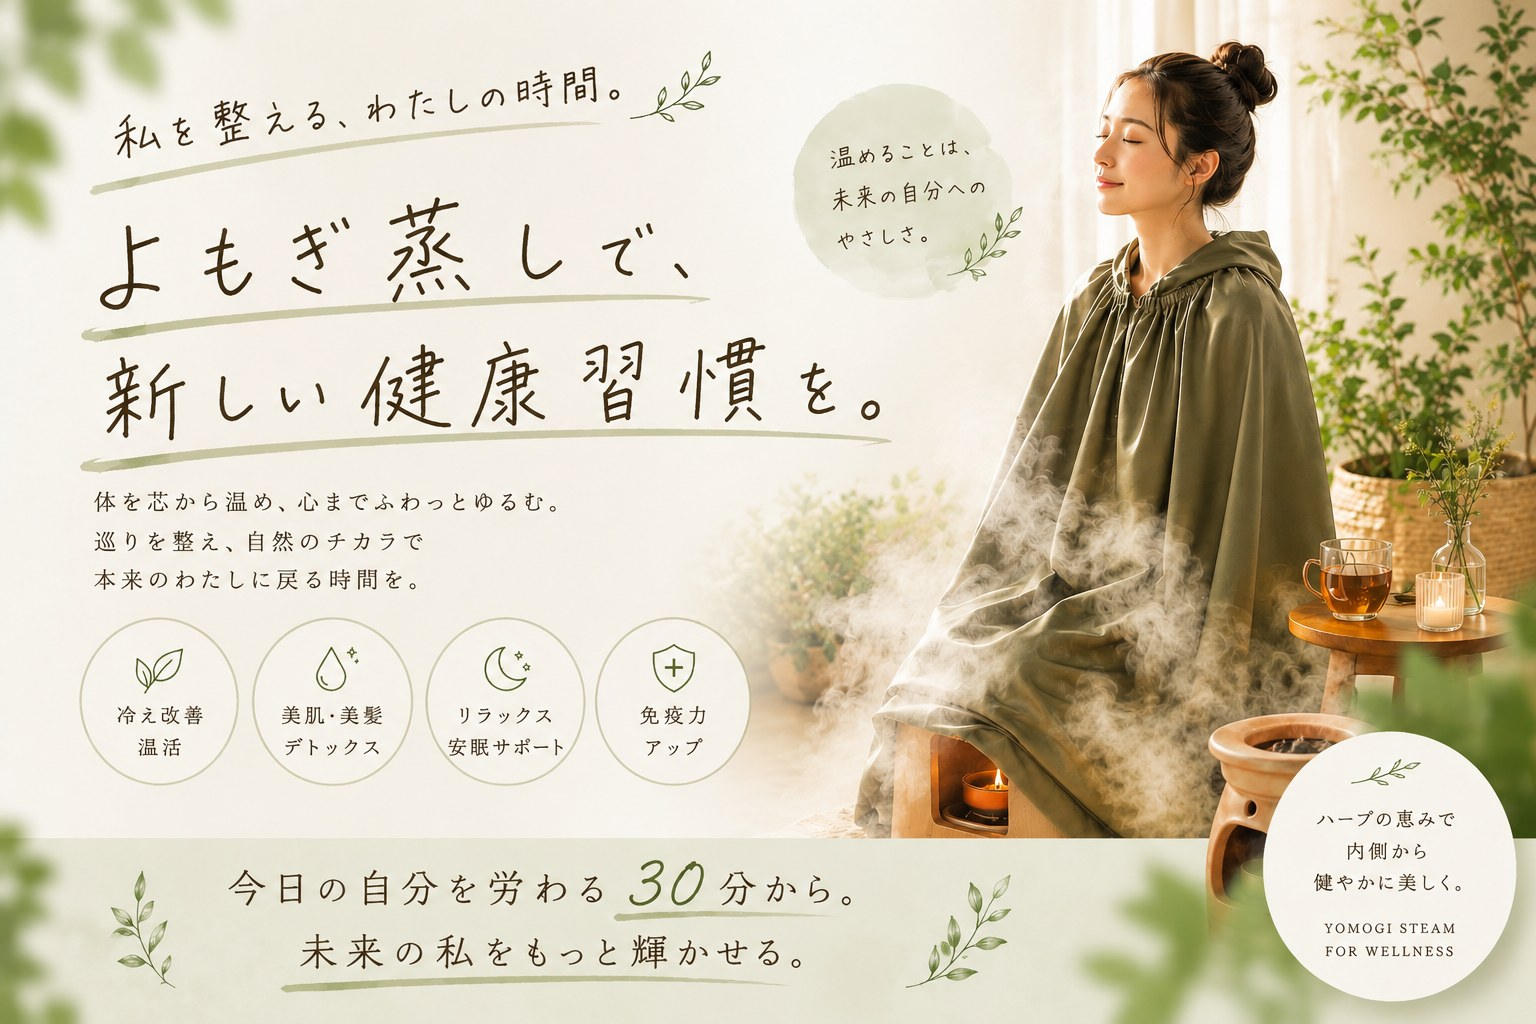
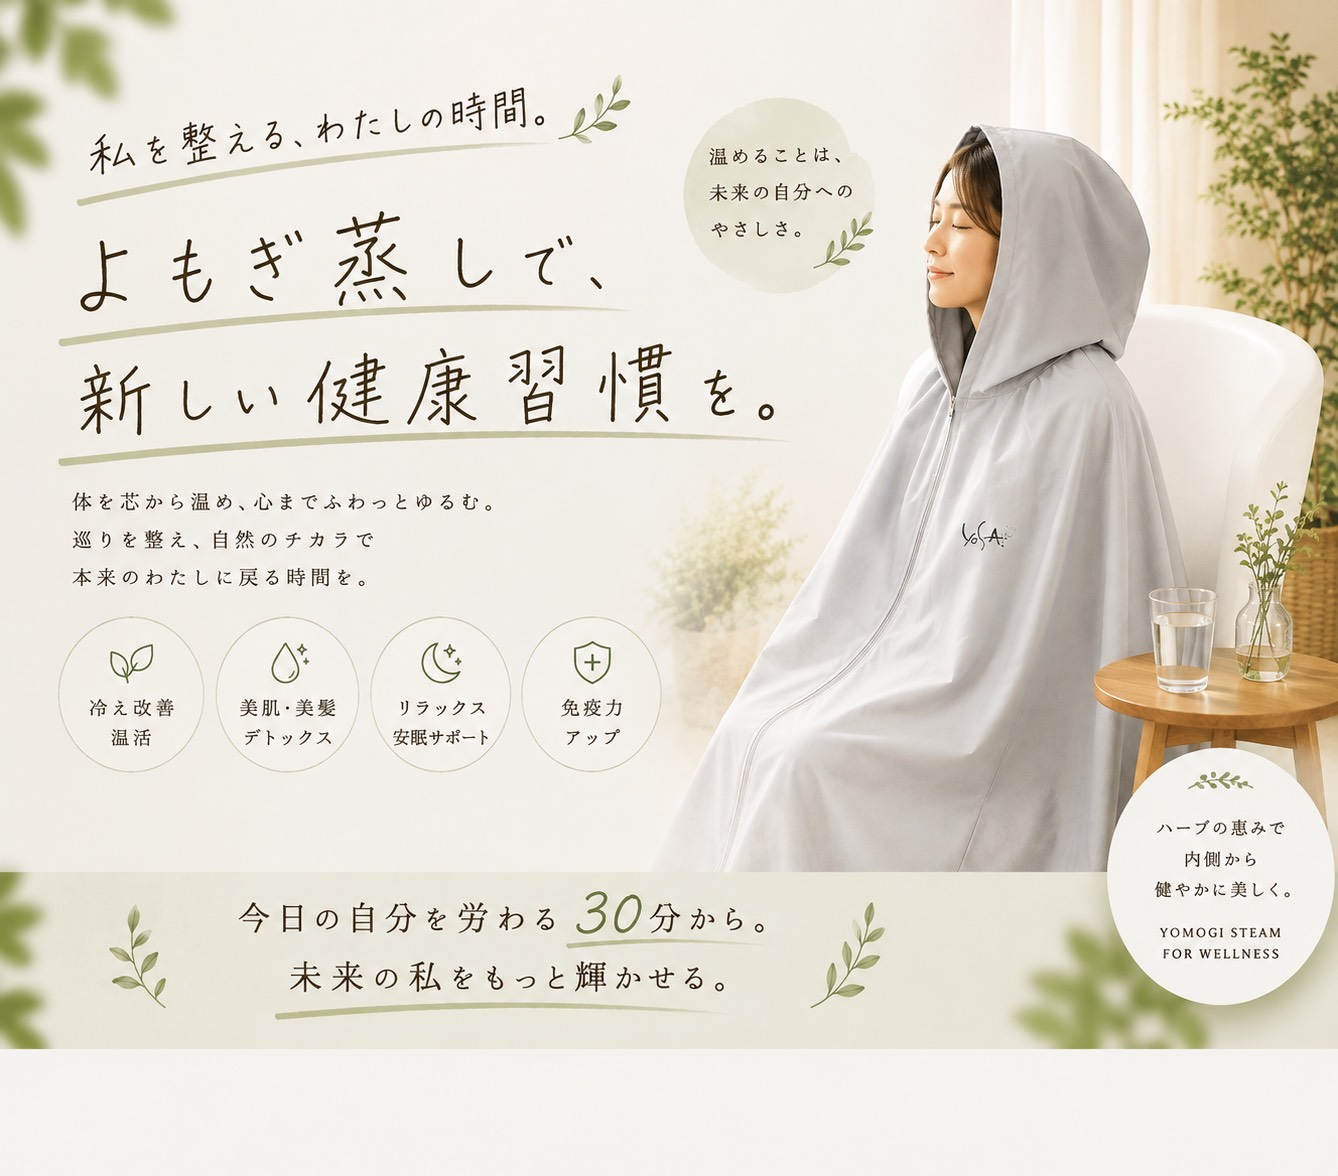
ヒーロー画像を差し替え（デスクトップ横長版／スマホ縦長版）
- デスクトップ: hero-top.jpg を新しいビジュアルに差し替え
- スマホ: 縦長の新規ビジュアルをhero-mobile.jpgとして追加し、
  初回表示でヘッダー直下から画面いっぱいに表示されるよう調整

diff --git a/components/MobileLanding.tsx b/components/MobileLanding.tsx
@@ -18,11 +18,11 @@ export default function MobileLanding() {
 
   return (
     <div className="mobile-only">
-      {/* ── Hero ───────────────────────────── */}
-      <section className="hero-full">
+      {/* ── Hero（スマホは画面いっぱいに表示） ───────────────────── */}
+      <section className="hero-mobile-full">
         <img
-          src="/hero-top.jpg"
-          alt="よもぎ蒸しで、新しい健康習慣を。体を芯から温め、本来のわたしに戻る時間を。"
+          src="/hero-mobile.jpg"
+          alt="私を整える、わたしの時間。よもぎ蒸しで、新しい健康習慣を。冷え改善・温活、美肌・美髪デトックス、リラックス・安眠サポート、免疫力アップ。今日の自分を労わる30分から、未来の私をもっと輝かせる。"
         />
       </section>
 

diff --git a/app/globals.css b/app/globals.css
@@ -129,6 +129,21 @@ img { max-width: 100%; display: block; }
 .hero-full { width: 100%; overflow: hidden; }
 .hero-full img { width: 100%; height: auto; display: block; }
 
+/* スマホ版ヒーロー：初回表示で画面いっぱいに表示（固定ヘッダー分を差し引く） */
+.hero-mobile-full {
+  width: 100%;
+  height: calc(100vh - 80px);
+  height: calc(100svh - 80px);
+  overflow: hidden;
+}
+.hero-mobile-full img {
+  width: 100%;
+  height: 100%;
+  object-fit: cover;
+  object-position: center top;
+  display: block;
+}
+
 /* 図版ヒーロー（ハーブ全体図などを切り抜かず中央に全体表示） */
 .hero-graphic { background: #fefefc; padding: 40px 20px 24px; text-align: center; }
 .hero-graphic img { width: 100%; max-width: 600px; height: auto; display: inline-block; }

diff --git a/app/(site)/page.tsx b/app/(site)/page.tsx
@@ -14,7 +14,7 @@ export default function Home() {
       <section className="hero-full">
         <img
           src="/hero-top.jpg"
-          alt="よもぎ蒸しで、新しい健康習慣を。体を芯から温め、本来のわたしに戻る時間を。"
+          alt="私を整える、わたしの時間。よもぎ蒸しで、新しい健康習慣を。冷え改善・温活、美肌・美髪デトックス、リラックス・安眠サポート、免疫力アップ。今日の自分を労わる30分から、未来の私をもっと輝かせる。"
         />
       </section>
 
